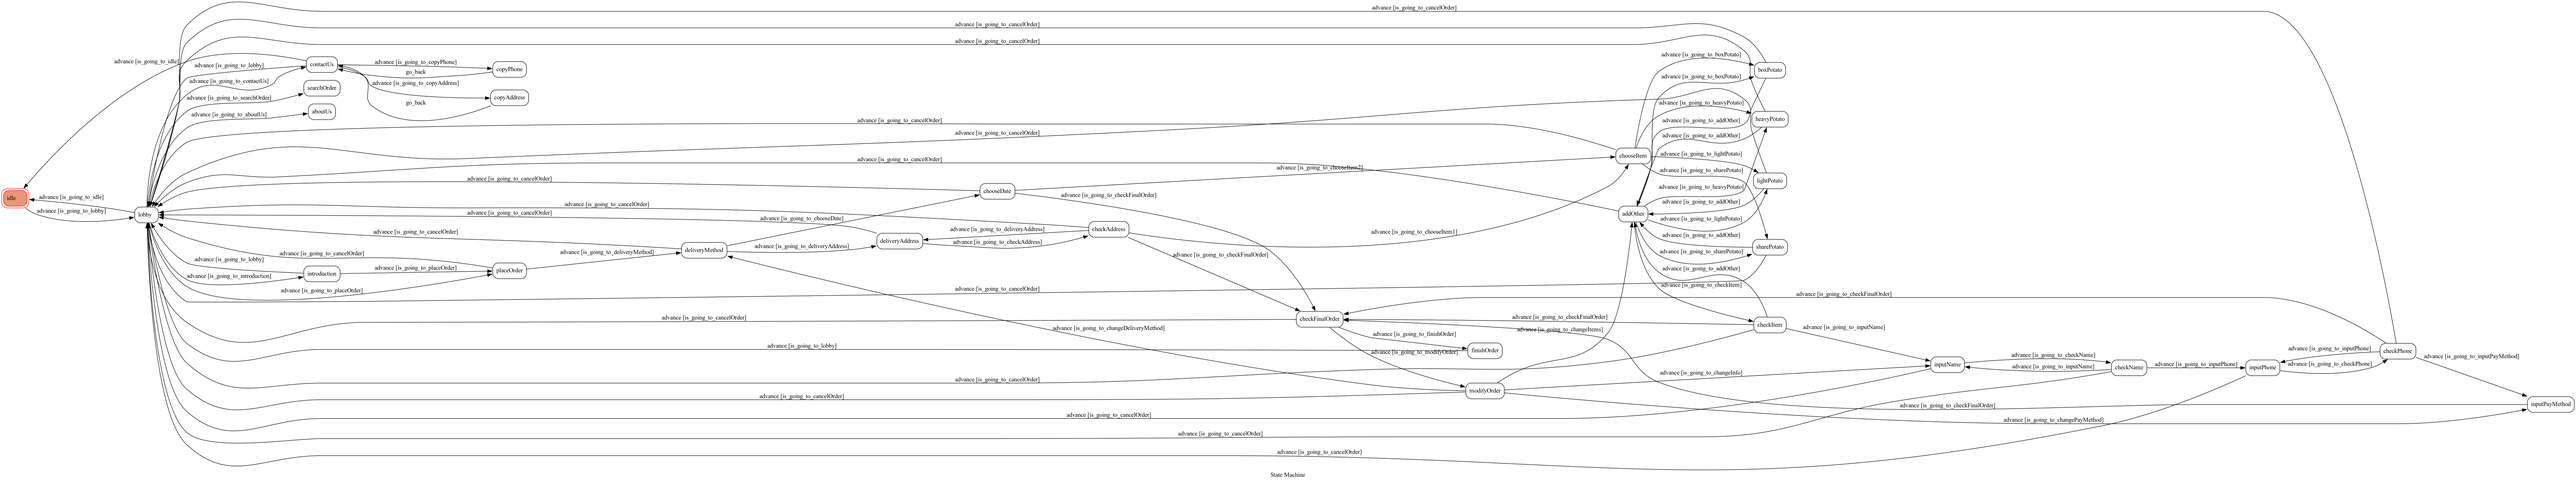
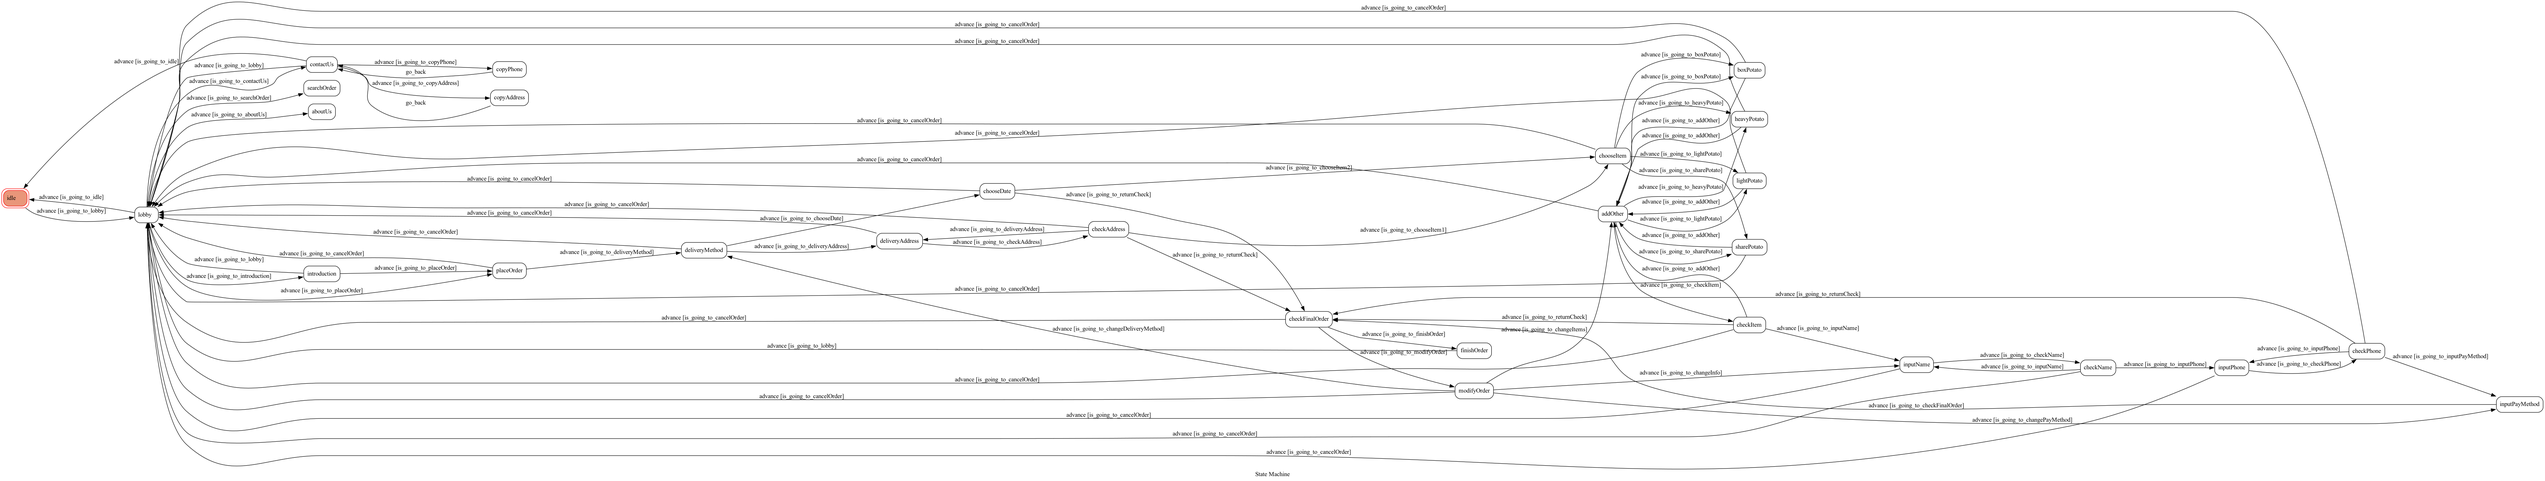
15

diff --git a/utils.py b/utils.py
@@ -1,7 +1,7 @@
 import os
 
 from linebot import LineBotApi, WebhookParser
-from linebot.models import MessageEvent, TextMessage, TextSendMessage, TemplateSendMessage, ButtonsTemplate, MessageTemplateAction, CarouselColumn, CarouselContainer, CarouselTemplate, ImageCarouselColumn, ConfirmTemplate, MessageAction
+from linebot.models import MessageEvent, TextMessage, TextSendMessage, TemplateSendMessage, ButtonsTemplate, MessageTemplateAction, CarouselColumn, CarouselContainer, CarouselTemplate, ImageCarouselColumn, ConfirmTemplate, MessageAction, LocationMessage
 
 
 # channel_access_token = os.getenv("LINE_CHANNEL_ACCESS_TOKEN", None)
@@ -391,8 +391,8 @@ def contactUs(reply_token):
                     text = "歡迎前往「台南市永康區大灣路129號之3」",
                     actions=[
                         MessageTemplateAction(
-                            label="複製地址",
-                            text='@複製地址',
+                            label="位置資訊",
+                            text='@位置資訊',
                         ),
 
                     ]
@@ -427,29 +427,36 @@ def inputNumber(reply_token,item):
     line_bot_api = LineBotApi(channel_access_token)
     line_bot_api.reply_message(reply_token, TextSendMessage("請輸入您欲訂購的"+"「"+item+"」數量\n（如欲訂購五包，請直接輸入「5」（不用量詞））"))
     
-def checkItem(reply_token,text):
+def checkItem(reply_token,text,mode):
     line_bot_api = LineBotApi(channel_access_token)
+    actions = []
+    actions.append(MessageTemplateAction(
+                        label = '修改品項',
+                        text='@修改品項'
+                    ))
+    # texts = "如商品正確無誤 請點擊「繼續填寫訂購資訊」"
+    if mode == 0:
+        actions.append(MessageTemplateAction(
+                        label = '繼續填寫訂購資訊',
+                        text='@繼續填寫訂購資訊'
+                    ))
+    else:
+        actions.append(MessageTemplateAction(
+                        label = '回結帳頁',
+                        text='@回結帳頁'
+                    ))
+    actions.append(MessageTemplateAction(
+                        label = '取消訂購',
+                        text='@取消釘購'
+                    ))
     messages = [
-        TextSendMessage(text=text),
+        TextSendMessage(text),
         TemplateSendMessage(
             alt_text='確認品項',
             template=ButtonsTemplate(
                 title='確認品項',
-                text = '如商品正確無誤 請點擊「繼續填寫訂購資訊',
-                actions=[
-                    MessageTemplateAction(
-                        label = '修改品項',
-                        text='@修改品項'
-                    ),
-                    MessageTemplateAction(
-                        label = '繼續填寫訂購資訊',
-                        text='@繼續填寫訂購資訊'
-                    ),
-                    MessageTemplateAction(
-                        label = '取消訂購',
-                        text='@取消釘購'
-                    ),
-                ]
+                text = "如商品正確無誤 請點選「繼續填寫訂購資訊」或「回結帳頁」",
+                actions=actions,
             )
         ),
     ]
@@ -601,6 +608,15 @@ def modifyOrder(reply_token):
             )
         ))
 
+def sendLocation(reply_token):
+    line_bot_api = LineBotApi(channel_access_token)
+    text = "請選擇欲修改的項目"
+    line_bot_api.reply_message(reply_token,LocationMessage(
+        title= "癸屋的甕烤地瓜",
+        address="台南市永康區大灣路129號之3",
+        latitude=23.009565,
+        longitude=120.269361,
+    ))
 """
 def send_image_url(id, img_url):
     pass

diff --git a/fsm.py b/fsm.py
@@ -129,7 +129,8 @@ class TocMachine(GraphMachine):
         if text == "@黑貓宅配" or text == "@修改地址":
             if text == "@黑貓宅配":
                 doc.update({
-                    'deliveryMethod' : 1
+                    'deliveryMethod' : 1,
+                    'box' : 0
                 })
             return True
         return False 
@@ -258,7 +259,7 @@ class TocMachine(GraphMachine):
                     money += 35*lightNum
                 buyList = buyList+'----------\n'+'總計 ' + str(money) + ' 元'
                 reply_token = event.reply_token
-                utils.checkItem(reply_token,buyList)
+                utils.checkItem(reply_token,buyList,numberList.to_dict()["orderMode"])
             return True
         return False
 
@@ -283,8 +284,6 @@ class TocMachine(GraphMachine):
             return True
         elif orederDetailed.to_dict()['orderMode'] == 1 and text == "@修改商品品項":
             return True
-        elif orederDetailed.to_dict()['orderMode'] == 1 and text != "@修改商品品項":
-            return False
         try:
             status = float(text).is_integer()
             if status == False:
@@ -382,14 +381,14 @@ class TocMachine(GraphMachine):
 
     def is_going_to_copyAddress(self,event,doc):
         text = event.message.text
-        if text == "@複製地址":
+        if text == "@位置資訊":
             return True
         return False
 
     def on_enter_copyAddress(self,event,doc):
         print("Go to copyAddress!")
         reply_token = event.reply_token
-        utils.send_text_message(reply_token,'台南市永康區大灣路129號之3')
+        utils.sendLocation(reply_token)
         self.go_back(event,doc)
 
     def is_going_to_aboutUs(self,event,doc):
@@ -483,6 +482,37 @@ class TocMachine(GraphMachine):
             })
             return True
         return False
+
+    def is_going_to_returnCheck(self,event,doc):
+        ref = doc.get().to_dict()
+        text = event.message.text
+        if ref["orderMode"] == 1 and ref["state"] == "chooseDate":
+            if text == "@星期六":
+                doc.update({'takeDate' : 0})
+                return True
+            elif text == "@星期日":
+                doc.update({'takeDate' : 1})
+                return True
+            else:
+                return False
+        elif ref["orderMode"] == 1 and ref["state"] == "checkPhone":
+            if text == "@確認電話":
+                return True
+            else:
+                return False
+        elif ref["orderMode"] == 1 and ref["state"] == "checkAddress":
+            if text == "@確認地址":
+                return True
+            else:
+                return False
+        elif ref["orderMode"] == 1 and ref["state"] == "checkItem":
+            if text == "@回結帳頁":
+                return True
+            else:
+                return False
+        return False
+        
+
 
     def on_enter_checkFinalOrder(self,event,doc):
         print("Go to checkFinalOrder!")

diff --git a/app.py b/app.py
@@ -53,7 +53,7 @@ machine = TocMachine(
             "trigger": "advance","source": "chooseDate","dest": "chooseItem","conditions": "is_going_to_chooseItem2",
         },
         {
-            "trigger": "advance","source": "chooseDate","dest": "checkFinalOrder","conditions": "is_going_to_checkFinalOrder",
+            "trigger": "advance","source": "chooseDate","dest": "checkFinalOrder","conditions": "is_going_to_returnCheck",
         },
         {
             "trigger": "advance","source": "deliveryAddress","dest": "checkAddress","conditions": "is_going_to_checkAddress",
@@ -65,7 +65,7 @@ machine = TocMachine(
             "trigger": "advance","source": "checkAddress","dest": "deliveryAddress","conditions": "is_going_to_deliveryAddress",
         },
         {
-            "trigger": "advance","source": "checkAddress","dest": "checkFinalOrder","conditions": "is_going_to_checkFinalOrder",
+            "trigger": "advance","source": "checkAddress","dest": "checkFinalOrder","conditions": "is_going_to_returnCheck",
         },
         {
             "trigger": "advance","source": "chooseItem","dest": "boxPotato","conditions": "is_going_to_boxPotato",
@@ -137,7 +137,7 @@ machine = TocMachine(
             "trigger": "advance","source": "checkItem","dest": "inputName","conditions": "is_going_to_inputName",
         },
         {
-            "trigger": "advance","source": "checkItem","dest": "checkFinalOrder","conditions": "is_going_to_checkFinalOrder",
+            "trigger": "advance","source": "checkItem","dest": "checkFinalOrder","conditions": "is_going_to_returnCheck",
         },
         {
             "trigger": "advance","source": "inputName","dest": "checkName","conditions": "is_going_to_checkName",
@@ -158,7 +158,7 @@ machine = TocMachine(
             "trigger": "advance","source": "checkPhone","dest": "inputPhone","conditions": "is_going_to_inputPhone",
         },
         {
-            "trigger": "advance","source": "checkPhone","dest": "checkFinalOrder","conditions": "is_going_to_checkFinalOrder",
+            "trigger": "advance","source": "checkPhone","dest": "checkFinalOrder","conditions": "is_going_to_returnCheck",
         },
         {
             "trigger": "advance","source": "inputPayMethod","dest": "checkFinalOrder","conditions": "is_going_to_checkFinalOrder",
